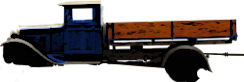
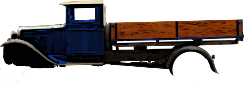
Neue Lkw-Bilder

diff --git a/src/de/_13ducks/cor/mainmenu/components/MenuBackground.java b/src/de/_13ducks/cor/mainmenu/components/MenuBackground.java
@@ -25,6 +25,7 @@
  */
 package de._13ducks.cor.mainmenu.components;
 
+import de._13ducks.cor.graphics.FontManager;
 import de._13ducks.cor.graphics.GraphicsImage;
 import de._13ducks.cor.mainmenu.MainMenu;
 import java.io.BufferedReader;
@@ -35,17 +36,16 @@ import java.io.FileReader;
 import java.io.IOException;
 import java.util.ArrayList;
 import java.util.HashMap;
+import org.newdawn.slick.Font;
 import org.newdawn.slick.Graphics;
 import org.newdawn.slick.Image;
-import java.awt.FontMetrics;
-
 
 /**
  * Zeichnet den Hintergrund für das Hauptmenü
  * @author Johannes
  */
-public class MenuBackground extends Component {
 
+public class MenuBackground extends Component {
     HashMap<String, GraphicsImage> imgMap;
     long starttime;
     long nextspawntime; // Wann wird ein neues BackgroundObj gespawnt?
@@ -55,40 +55,37 @@ public class MenuBackground extends Component {
     int tiley; // Anzahl notwendiger Bodentexturkacheln Y
     String groundtex; // Gras / Sand / Wüste bei Bodentexturen
     ArrayList<MenuBackgroundObject> BackgroundObj = new ArrayList<MenuBackgroundObject>();
-
     final static double speed = 0.04; // Geschwindikeit des Hintergrunds
     final static double sloganspeed = 0.08; // Geschwindikeit des Slogans
     final static int maxspawndelay = 10000; // In welchen Zeitabständen Hintergrundobjekte erzeugt werden
-
     MenuSlogan currentSlogan; // Der aktuelle Slogan
     long sloganspawntime; // Wann der aktuelle Slogan gestartet ist
-    ArrayList<Float> wheelsX = new ArrayList<Float>();
 
     public MenuBackground(MainMenu m, double relX, double relY, double relWidth, double relHeigth, HashMap<String, GraphicsImage> imgMap) {
-	super(m, relX, relY, relWidth, relHeigth);
-	this.imgMap = imgMap;
-	starttime = System.currentTimeMillis();
-	nextspawntime = 0;
-	sloganspawntime = 100;
-	resx = m.getResX();
-	resy = m.getResY();
-	tilex = (int) Math.ceil(resx / 512) + 2;
-	tiley = (int) Math.ceil(resy / 512);
-	BackgroundObj.add(new MenuBackgroundObject((int) (resx * 3 / 4), (int) (resy / 2), 200, 160, "img/buildings/human_baracks_e1.png", (long) (-resx / 4 / speed)));
+        super(m, relX, relY, relWidth, relHeigth);
+        this.imgMap = imgMap;
+        starttime = System.currentTimeMillis();
+        nextspawntime = 0;
+        sloganspawntime = 100;
+        resx = m.getResX();
+        resy = m.getResY();
+        tilex = (int) Math.ceil(resx / 512) + 2;
+        tiley = (int) Math.ceil(resy / 512);
+        BackgroundObj.add(new MenuBackgroundObject((int) (resx * 3 / 4), (int) (resy / 2), 200, 160, "img/buildings/human_baracks_e1.png", (long) (-resx / 4 / speed)));
 
-	// Zufällige Bodentextur wählen:
-	int random = (int) (Math.random() * 3);
-	if ( random == 0) {
-	    groundtex = "img/ground/menuground.png";
-	} else if (random == 1) {
-	    groundtex = "img/ground/menuground2.png";
-	} else {
-	    groundtex = "img/ground/menuground3.png";
-	}
+        // Zufällige Bodentextur wählen:
+        int random = (int) (Math.random() * 3);
+        if (random == 0) {
+            groundtex = "img/ground/menuground.png";
+        } else if (random == 1) {
+            groundtex = "img/ground/menuground2.png";
+        } else {
+            groundtex = "img/ground/menuground3.png";
+        }
 
-	// Slogans einlesen
+        // Slogans einlesen
         File sloganFile = null;
-	ArrayList<String> Slogans = new ArrayList<String>(); // Eine ArrayList mit den Slogans
+        ArrayList<String> Slogans = new ArrayList<String>(); // Eine ArrayList mit den Slogans
         try {
             sloganFile = new File("randomslogans");
             FileReader sloganReader = new FileReader(sloganFile);
@@ -96,7 +93,7 @@ public class MenuBackground extends Component {
             String zeile = null;
             while ((zeile = reader.readLine()) != null) {
                 // Liest Zeile fuer Zeile, speichert als String
-		Slogans.add(zeile);
+                Slogans.add(zeile);
             }
             reader.close();
         } catch (FileNotFoundException e1) {
@@ -114,90 +111,102 @@ public class MenuBackground extends Component {
             System.exit(1);
         }
 
-	// 1. Slogan auswählen
+        // 1. Slogan auswählen
         currentSlogan = new MenuSlogan(0, Slogans.get((int) (Math.random() * Slogans.size())));
     }
 
     @Override
     public void render(Graphics g) {
+        long time = System.currentTimeMillis() - starttime; // Berechnet Zeit seit Start in Millisekunden
 
-	long time = System.currentTimeMillis() - starttime; // Berechnet Zeit seit Start in Millisekunden
+        // Bodentexturen zeichnen
+        for (int i = 0; i <= tilex; i++) {
+            for (int j = 0; j <= tiley; j++) {
+                imgMap.get(groundtex).getImage().draw((float) (i * 512 - (time % (512 / speed)) * speed), (float) j * 512);
+            }
+        }
 
-	// Bodentexturen zeichnen
-	for (int i = 0; i <= tilex; i++) {
-	    for (int j = 0; j <= tiley; j++) {
-		imgMap.get(groundtex).getImage().draw((float) (i * 512 - (time % (512 / speed)) * speed), (float) j * 512);
-	    }
-	}
+        // Background-Objekte zeichnen / entfernen
+        for (int i = 0; i < BackgroundObj.size(); i++) {
+            if ((time - BackgroundObj.get(i).getStarttime()) * speed > resx + 300) {
+                // Entfernen, wenn es am linken Bildschirmrand ist
+                BackgroundObj.remove(i);
+                i--;
+            } else {
+                // Zeichnen
+                imgMap.get(BackgroundObj.get(i).getPic()).getImage().draw((float) (resx - (speed * (time - BackgroundObj.get(i).getStarttime()))), BackgroundObj.get(i).getY());
+            }
+        }
 
-	// Background-Objekte zeichnen / entfernen
-	for (int i = 0; i < BackgroundObj.size(); i++) {
-	    if ((time - BackgroundObj.get(i).getStarttime()) * speed > resx + 300) {
-		// Entfernen, wenn es am linken Bildschirmrand ist
-		BackgroundObj.remove(i);
-		i--;
-	    } else {
-		// Zeichnen
-		imgMap.get(BackgroundObj.get(i).getPic()).getImage().draw((float) (resx - (speed * (time - BackgroundObj.get(i).getStarttime()))), BackgroundObj.get(i).getY());
-	    }
-	}
-
-	// Slogan zeichnen
-        // Lkw zeichnen
+        // Slogan-Lkw zeichnen
         Image LkwImg = imgMap.get(currentSlogan.getLkwpic()).getImage();
         float lkwX = (float) (resx - (sloganspeed * time - currentSlogan.getStarttime()));
         LkwImg.draw(lkwX, (float) (0.86 * resy - LkwImg.getHeight()));
+
+        ArrayList<Float> wheelsX = new ArrayList<Float>(); // Positionen der Lkw-Räder
         wheelsX.add(lkwX);
-        wheelsX.add(lkwX + 170);
+        wheelsX.add(lkwX + 168);
 
         // Einzelne Wörte zeichnen
-	for (int i = 0; i < currentSlogan.getWords().size(); i++) {
-
+        for (int i = 0; i < currentSlogan.getWords().size(); i++) {
+            Font bla = FontManager.getFont0();
+            //bla.getWidth(currentSlogan.getWords().get(i).getWord());
         }
 
         // Räder zeichnen
         final int wheelheight = 46;
         Image WheelImg = imgMap.get(currentSlogan.getWheelpic()).getImage();
+        WheelImg.rotate(-4);
         for (int i = 0; i < wheelsX.size(); i++) {
             WheelImg.draw(wheelsX.get(i), (float) (0.86 * resy - LkwImg.getHeight() + wheelheight));
         }
-        wheelsX.clear();
 
-	// Neue Background-Objekte zufällig erstellen
-	if (time > nextspawntime) {
-	    nextspawntime = (long) (time + Math.random() * maxspawndelay);
-	    String picturepath;
-	    double randomnumber = Math.random();
-	    if (randomnumber < 0.04 && time > 30000) {
-		picturepath = "img/creeps/testhuman2.png";
-	    } else if (randomnumber < 0.36) {
-		picturepath = "img/buildings/human_house_e1.png";
-	    } else if (randomnumber < 0.68) {
-		picturepath = "img/buildings/human_storage_e1.png";
-	    } else {
-		picturepath = "img/buildings/human_baracks_e1.png";
-	    }
-	    int y = (int) (Math.random() * resy);
-	    int height = imgMap.get(picturepath).getImage().getHeight(); // Höhe vom Hintergrund-Objekt
-	    int width = imgMap.get(picturepath).getImage().getWidth(); // s.o.
 
-	    // Überschneidet es sich mit anderen Bildern? -> Wird nicht erzeugt
-	    boolean everythingfine = true;
-	    for (int i = 0; i < BackgroundObj.size(); i++) {
-		// Bild noch am rechten Rand?
-		if ((time - BackgroundObj.get(i).getStarttime()) * speed <= BackgroundObj.get(i).getWidth()) {
-		    // Auf gleicher Höhe mit anderem Bild?
-		    if (y <= BackgroundObj.get(i).getY() + BackgroundObj.get(i).getHeight()) {
-			if (y + height >= BackgroundObj.get(i).getY()) {
-			    everythingfine = false;
-			}
-		    }
-		}
-	    }
+        // Neue Background-Objekte zufällig erstellen
+        if (time > nextspawntime) {
+            nextspawntime = (long) (time + Math.random() * maxspawndelay);
+            createNewBackgroundObject(time);
+        }
+    }
 
-	    if (everythingfine) {
-		BackgroundObj.add(new MenuBackgroundObject(resx, y, width, height, picturepath, time));
-	    }
-	}
+    private void createNewBackgroundObject(long time) {
+        String picturepath;
+        double randomnumber = Math.random();
+
+        // zufällig Bild auswählen
+        if (randomnumber < 0.04 && time > 30000) {
+            picturepath = "img/creeps/testhuman2.png";
+        } else if (randomnumber < 0.36) {
+            picturepath = "img/buildings/human_house_e1.png";
+        } else if (randomnumber < 0.68) {
+            picturepath = "img/buildings/human_storage_e1.png";
+        } else {
+            picturepath = "img/buildings/human_baracks_e1.png";
+        }
+
+        // zufällig y-Position auswählen
+        int y = (int) (Math.random() * resy);
+
+        int height = imgMap.get(picturepath).getImage().getHeight(); // Höhe vom Hintergrund-Objekt
+        int width = imgMap.get(picturepath).getImage().getWidth(); // s.o.
+
+        // Überschneidet es sich mit anderen Bildern? -> Wird nicht erzeugt
+        boolean everythingfine = true;
+        for (int i = 0; i < BackgroundObj.size(); i++) {
+            // Bild noch am rechten Rand?
+            if ((time - BackgroundObj.get(i).getStarttime()) * speed <= BackgroundObj.get(i).getWidth()) {
+                // Auf gleicher Höhe mit anderem Bild?
+                if (y <= BackgroundObj.get(i).getY() + BackgroundObj.get(i).getHeight()) {
+                    if (y + height >= BackgroundObj.get(i).getY()) {
+                        everythingfine = false;
+                    }
+                }
+            }
+        }
+
+        // Wenn es sich nicht überschneidet, wird es jetzt eingetragen
+        if (everythingfine) {
+            BackgroundObj.add(new MenuBackgroundObject(resx, y, width, height, picturepath, time));
+        }
     }
 }

diff --git a/src/de/_13ducks/cor/mainmenu/components/MenuSlogan.java b/src/de/_13ducks/cor/mainmenu/components/MenuSlogan.java
@@ -26,7 +26,9 @@
 
 package de._13ducks.cor.mainmenu.components;
 
+import de._13ducks.cor.graphics.FontManager;
 import java.util.ArrayList;
+import org.newdawn.slick.Font;
 
 /**
  * Hat was mit den Sprüchen im Nauptmenü zu tun
@@ -54,6 +56,11 @@ public class MenuSlogan {
             // todo: vernünftige Werte übergeben
             Words.add(new MenuSloganWord(starttime, WordWIP[i]));
         }
+
+        /*for (int i = 0; i < currentSlogan.getWords().size(); i++) {
+            Font bla = FontManager.getFont0();
+            bla.getWidth(currentSlogan.getWords().get(i).getWord());
+        }*/
     }
 
     /**

diff --git a/src/de/_13ducks/cor/mainmenu/components/MenuSloganWord.java b/src/de/_13ducks/cor/mainmenu/components/MenuSloganWord.java
@@ -26,6 +26,9 @@
 
 package de._13ducks.cor.mainmenu.components;
 
+import de._13ducks.cor.graphics.FontManager;
+import org.newdawn.slick.Font;
+
 /**
  *
  * @author Johannes
